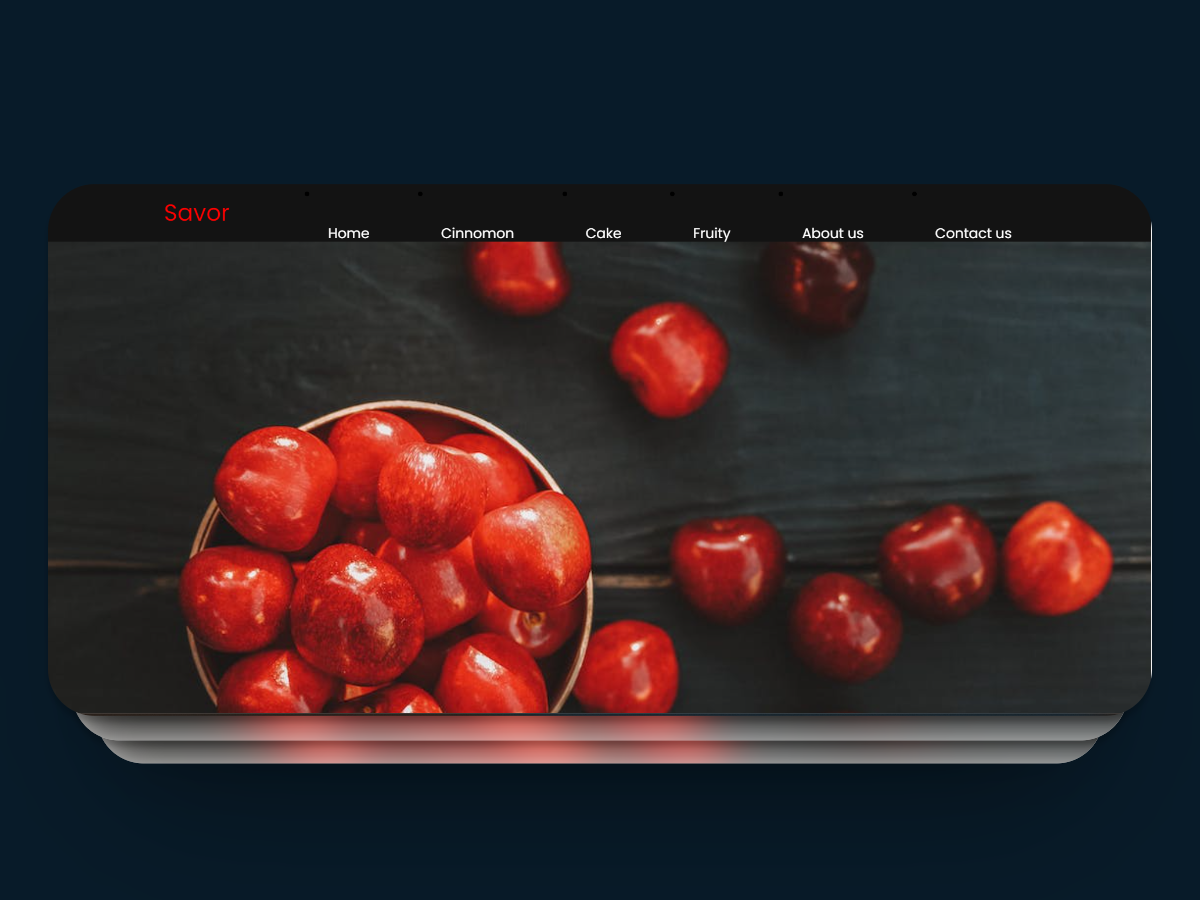
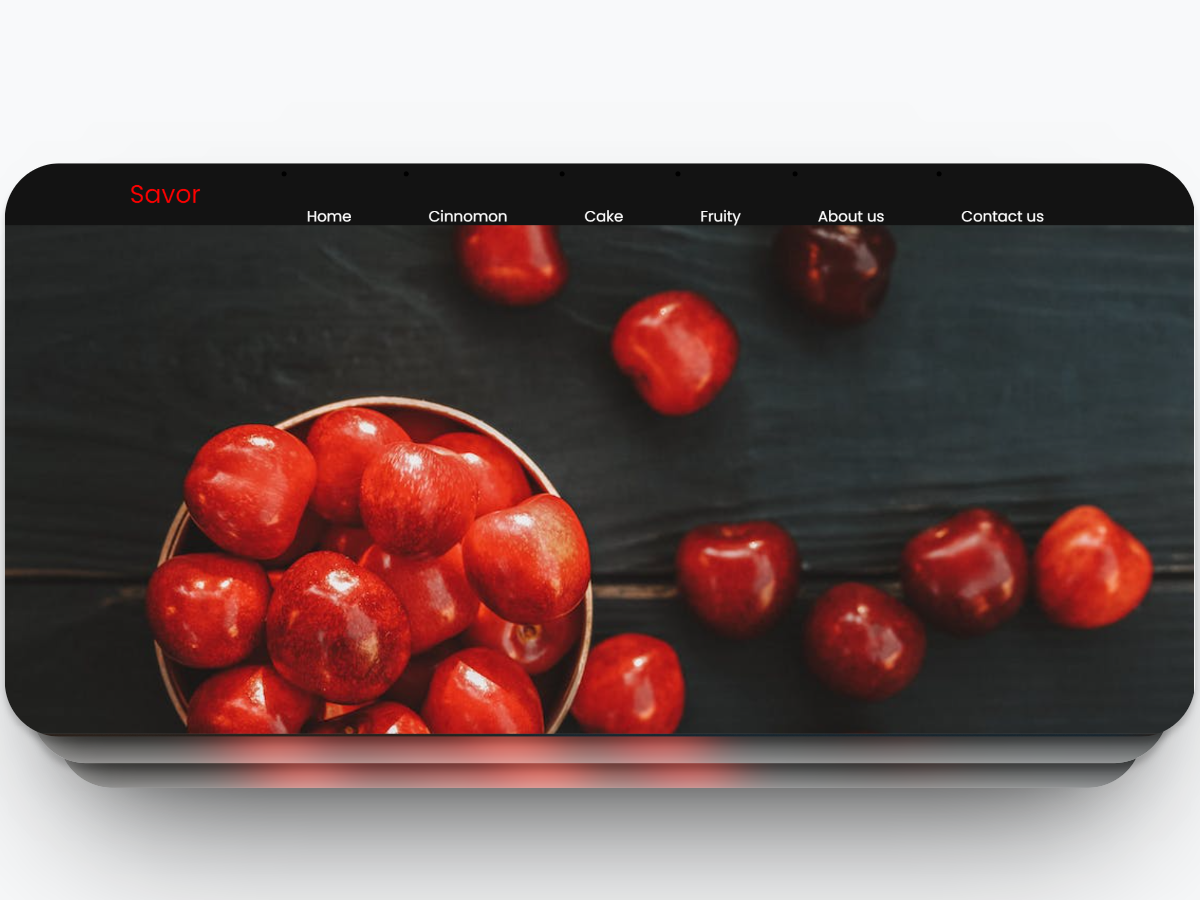
complete project section

diff --git a/css/style.css b/css/style.css
@@ -68,14 +68,14 @@ section {
 
 .transparent-navbar {
   background: transparent !important;
-  background-color: transparent;
+  background-color: var(--bg-color);
+  color: var(--white-color);
 }
 .transparent-navbar .navbar a{
-  color: var(--second-bg-color) !important;
+  color:#707e89  !important;
 }
-
-.transparent-navbar .bx{
-  color: var(--second-bg-color) !important;
+.transparent-navbar .logo{
+  color: #707e89 !important;
 }
 
 .header {
@@ -90,9 +90,6 @@ section {
   align-items: center;
   z-index: 100;
   /* background-color: transparent; */
-}
-.transparent-navbar .logo{
-  color: var(--second-bg-color) !important;
 }
 
 .logo {

diff --git a/index.html b/index.html
@@ -282,7 +282,6 @@
 
           <main class="mainContainer">
               <div class="button-group">
-                  <!-- <button class="button active" data-filter="*">All</button> -->
                   <button id="web" class="button active" data-filter=".web">Web</button>
                   <button id="mobile" class="button" data-filter=".mobile">Mobile</button>
                   <button id="ui" class="button" data-filter=".ui">UI/UX</button>
